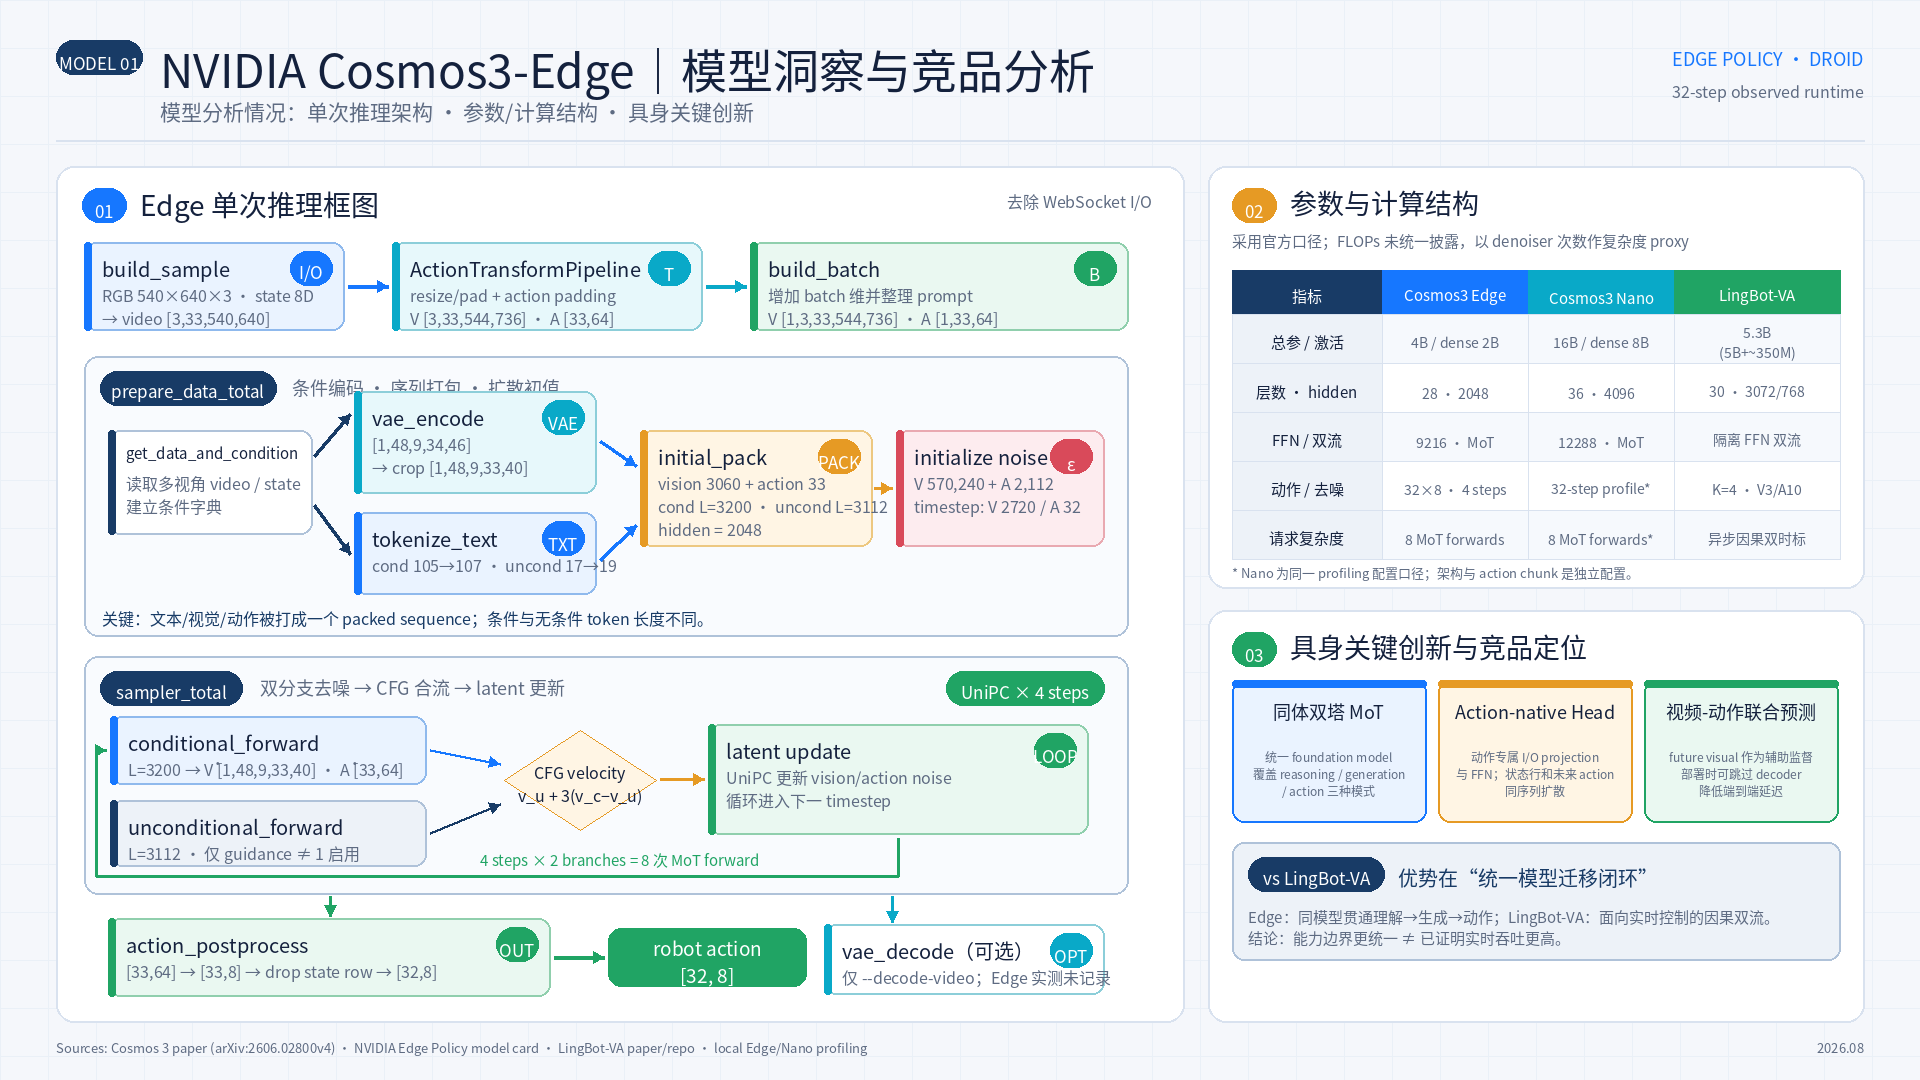
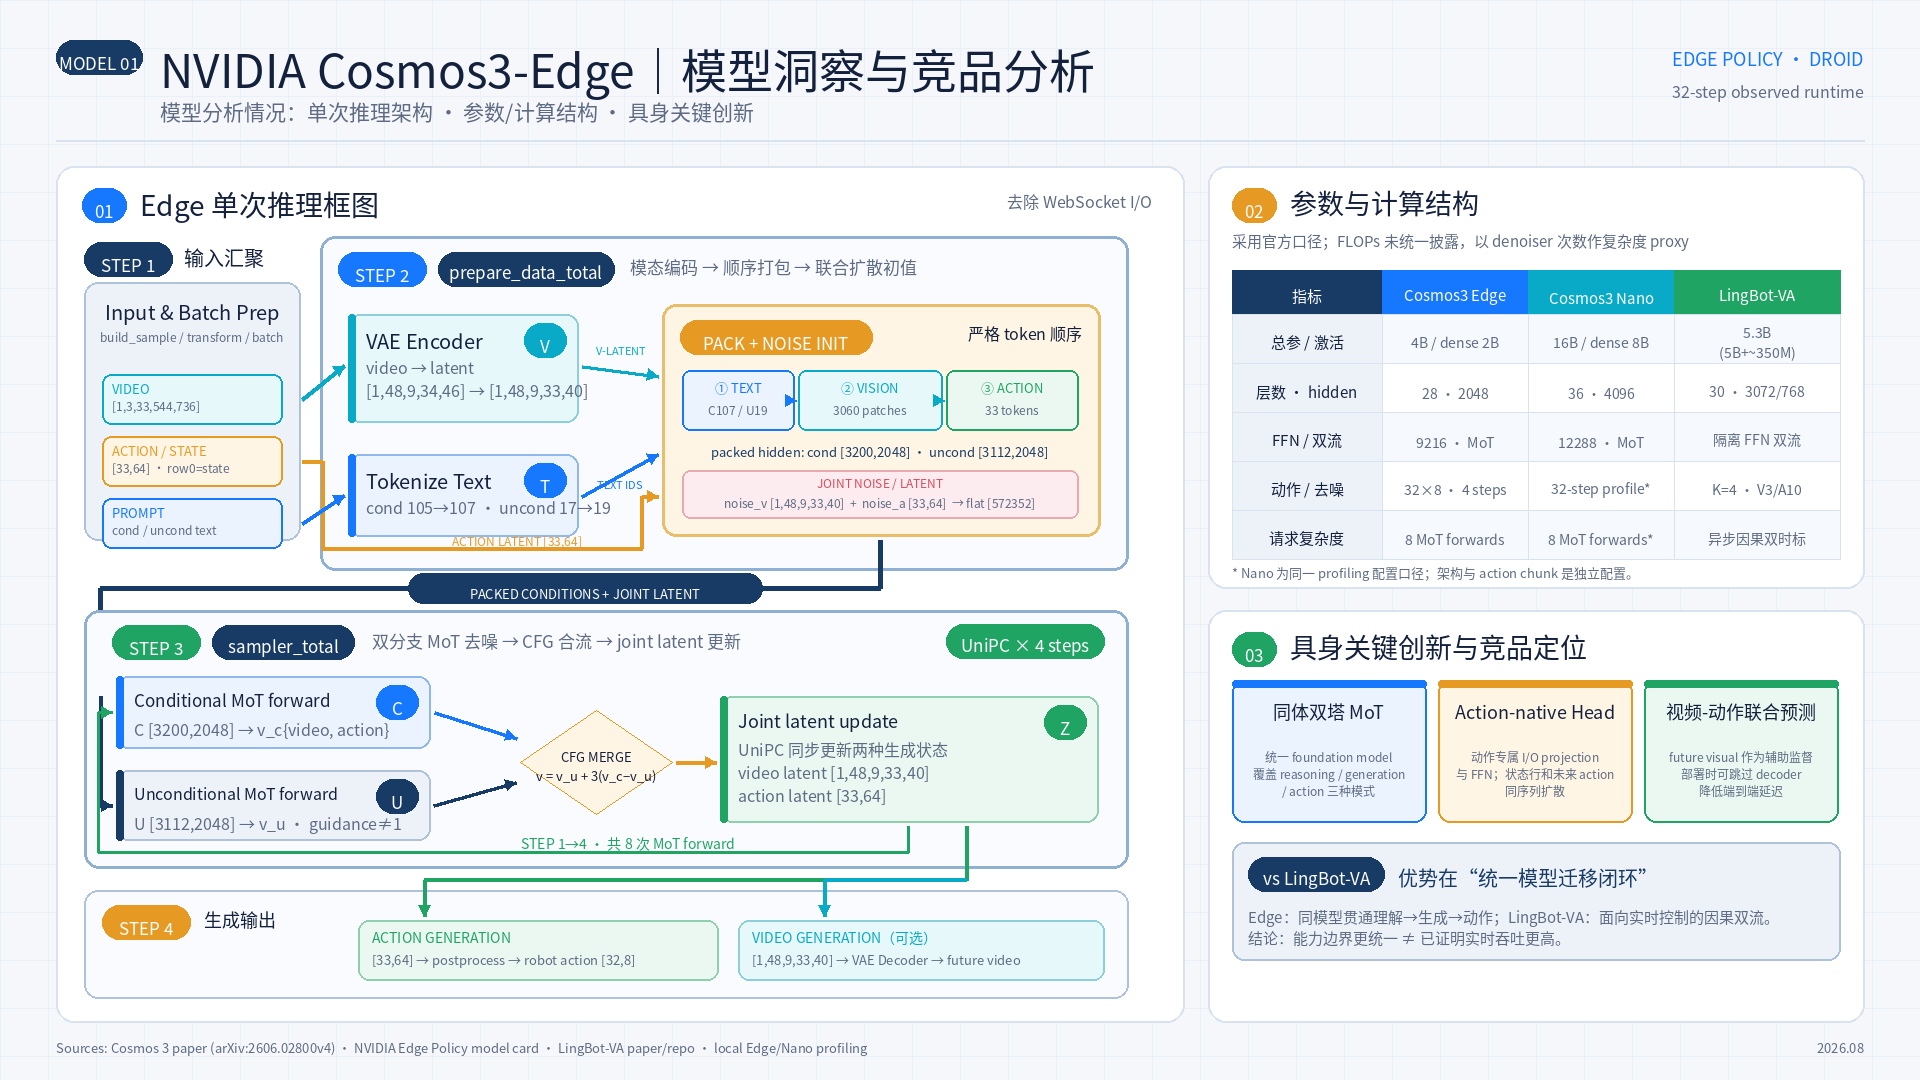
Clarify Cosmos3 Edge inference flow

Changed region(s): [[0.0312, 0.2139, 0.5938, 0.9472]]

diff --git a/docs/ppt/cosmos3_edge_model_insights/generate_pptx.py b/docs/ppt/cosmos3_edge_model_insights/generate_pptx.py
@@ -123,6 +123,22 @@ class SlideCanvas:
         tri.line.fill.background()
         self.draw.polygon([(x2, y2), left, right], fill=hex_tuple(color))
 
+    def path_arrow(self, points, color="1677FF", width=4, dash=False):
+        """Draw an editable orthogonal/segmented connector with one arrowhead."""
+        for (x1, y1), (x2, y2) in zip(points, points[1:]):
+            self.line(x1, y1, x2, y2, color, width, dash)
+        (x1, y1), (x2, y2) = points[-2], points[-1]
+        angle = math.atan2(y2 - y1, x2 - x1)
+        size = 12
+        left = (x2 - size * math.cos(angle - math.pi / 6), y2 - size * math.sin(angle - math.pi / 6))
+        right = (x2 - size * math.cos(angle + math.pi / 6), y2 - size * math.sin(angle + math.pi / 6))
+        tri = self.slide.shapes.add_shape(MSO_AUTO_SHAPE_TYPE.ISOSCELES_TRIANGLE, inch(x2 - 9), inch(y2 - 9), inch(18), inch(18))
+        tri.rotation = math.degrees(angle) + 90
+        tri.fill.solid()
+        tri.fill.fore_color.rgb = rgb(color)
+        tri.line.fill.background()
+        self.draw.polygon([(x2, y2), left, right], fill=hex_tuple(color))
+
     def text(self, x, y, w, h, value, size=24, color="14213D", bold=False, align="left", valign="top", margin=0, line_spacing=1.0):
         box = self.slide.shapes.add_textbox(inch(x), inch(y), inch(w), inch(h))
         frame = box.text_frame
@@ -163,8 +179,10 @@ class SlideCanvas:
     def save(self):
         notes = self.slide.notes_slide.notes_text_frame
         notes.text = (
-            "讲解要点：左侧按真实 Edge Policy 32-step profiling 展示单次请求；"
-            "默认 guidance=3、4 个 UniPC step，因此条件/无条件共 8 次 MoT 前向。"
+            "讲解要点：左侧严格按 STEP 1→4 阅读。先把服务侧预处理折叠成 video/action/prompt 三路输入；"
+            "prepare_data_total 分别完成 VAE、文本 tokenize，并按 text→vision→action 顺序打包，同时初始化联合噪声；"
+            "sampler_total 以同一 packed condition 和 joint latent 执行条件/无条件 MoT、CFG 合流与 UniPC 更新；"
+            "默认 guidance=3、4 个 UniPC step，因此共 8 次 MoT 前向。最后拆成 action 和可选 video 两路输出。"
             "右侧参数采用 Cosmos 3 与 LingBot-VA 官方论文/模型卡口径。"
             "LingBot-VA 是实时因果双流路线，不宜仅凭参数量宣称吞吐优劣。"
         )
@@ -194,64 +212,106 @@ def build():
     c.text(lx + 84, ly + 17, 760, 38, "Edge 单次推理框图", 28, COLORS["ink"], True)
     c.text(lx + 810, ly + 23, 286, 28, "去除 WebSocket I/O", 16, COLORS["muted"], False, "right")
 
-    # Top I/O preparation chain
-    chain_y = 242
-    c.node(84, chain_y, 260, 88, "build_sample", "RGB 540×640×3 · state 8D\n→ video [3,33,540,640]", COLORS["soft_blue"], "8FB9ED", COLORS["blue"], "I/O")
-    c.arrow(348, chain_y + 44, 388, chain_y + 44, COLORS["blue"], 4)
-    c.node(392, chain_y, 310, 88, "ActionTransformPipeline", "resize/pad + action padding\nV [3,33,544,736] · A [33,64]", COLORS["soft_cyan"], "8CCED9", COLORS["cyan"], "T")
-    c.arrow(706, chain_y + 44, 746, chain_y + 44, COLORS["cyan"], 4)
-    c.node(750, chain_y, 378, 88, "build_batch", "增加 batch 维并整理 prompt\nV [1,3,33,544,736] · A [1,33,64]", COLORS["soft_green"], "90CFAD", COLORS["green"], "B")
+    # Step 1: collapse all service-side preprocessing into one audience-level block.
+    c.badge(84, 242, 88, "STEP 1", COLORS["navy"])
+    c.text(184, 242, 190, 30, "输入汇聚", 20, COLORS["ink"], True)
+    c.rect(84, 282, 216, 258, COLORS["soft_navy"], "AFC2D9", 14, 2)
+    c.text(102, 296, 180, 30, "Input & Batch Prep", 20, COLORS["ink"], True, "center")
+    c.text(102, 328, 180, 34, "build_sample / transform / batch", 12, COLORS["muted"], False, "center")
+    input_lanes = [
+        (374, "VIDEO", "[1,3,33,544,736]", COLORS["cyan"], COLORS["soft_cyan"]),
+        (436, "ACTION / STATE", "[33,64] · row0=state", COLORS["amber"], COLORS["soft_amber"]),
+        (498, "PROMPT", "cond / uncond text", COLORS["blue"], COLORS["soft_blue"]),
+    ]
+    for yy, label, shape, accent, fill in input_lanes:
+        c.rect(102, yy, 180, 50, fill, accent, 9, 2)
+        c.text(112, yy + 4, 160, 19, label, 13, accent, True)
+        c.text(112, yy + 23, 160, 20, shape, 12, COLORS["muted"])
 
-    # prepare_data_total container
-    py, ph = 356, 280
-    c.rect(84, py, 1044, ph, "F9FBFE", "AFC2D9", 14, 2)
-    c.badge(100, py + 15, 176, "prepare_data_total", COLORS["navy"])
-    c.text(292, py + 18, 500, 28, "条件编码 · 序列打包 · 扩散初值", 18, COLORS["muted"], True)
+    # Step 2: preparation is a coherent stage with three modality lanes and one merge.
+    c.rect(320, 236, 808, 334, "F9FBFE", "8FB0D3", 15, 3)
+    c.badge(338, 252, 88, "STEP 2", COLORS["blue"])
+    c.badge(438, 252, 176, "prepare_data_total", COLORS["navy"])
+    c.text(630, 254, 466, 26, "模态编码 → 顺序打包 → 联合扩散初值", 17, COLORS["muted"], True)
 
-    c.node(108, 430, 204, 104, "get_data_and_condition", "读取多视角 video / state\n建立条件字典", "FFFFFF", "AFC2D9", COLORS["navy"], None, 15)
-    c.arrow(314, 456, 350, 414, COLORS["navy"], 3)
-    c.arrow(314, 505, 350, 554, COLORS["navy"], 3)
-    c.node(354, 391, 242, 102, "vae_encode", "[1,48,9,34,46]\n→ crop [1,48,9,33,40]", COLORS["soft_cyan"], "8CCED9", COLORS["cyan"], "VAE")
-    c.node(354, 512, 242, 82, "tokenize_text", "cond 105→107 · uncond 17→19", COLORS["soft_blue"], "8FB9ED", COLORS["blue"], "TXT")
-    c.arrow(600, 441, 636, 466, COLORS["blue"], 3)
-    c.arrow(600, 560, 636, 525, COLORS["blue"], 3)
-    c.node(640, 430, 232, 116, "initial_pack", "vision 3060 + action 33\ncond L=3200 · uncond L=3112\nhidden = 2048", COLORS["soft_amber"], "EDC881", COLORS["amber"], "PACK")
-    c.node(896, 430, 208, 116, "initialize noise", "V 570,240 + A 2,112\ntimestep: V 2720 / A 32", COLORS["soft_red"], "E9A9B1", COLORS["red"], "ε")
-    c.arrow(874, 488, 892, 488, COLORS["amber"], 3)
-    c.text(102, 606, 984, 24, "关键：文本/视觉/动作被打成一个 packed sequence；条件与无条件 token 长度不同。", 16, COLORS["navy"], True)
+    c.node(348, 314, 230, 108, "VAE Encoder", "video → latent\n[1,48,9,34,46] → [1,48,9,33,40]", COLORS["soft_cyan"], "8CCED9", COLORS["cyan"], "V")
+    c.node(348, 454, 230, 82, "Tokenize Text", "cond 105→107 · uncond 17→19", COLORS["soft_blue"], "8FB9ED", COLORS["blue"], "T")
 
-    # sampler_total container
-    sy, sh = 656, 238
-    c.rect(84, sy, 1044, sh, "F9FBFE", "AFC2D9", 14, 2)
-    c.badge(100, sy + 15, 142, "sampler_total", COLORS["navy"])
-    c.badge(946, sy + 15, 158, "UniPC × 4 steps", COLORS["green"])
-    c.text(260, sy + 18, 620, 28, "双分支去噪 → CFG 合流 → latent 更新", 18, COLORS["muted"], True)
+    # Explicit input data routes and shapes.
+    c.arrow(302, 399, 344, 365, COLORS["cyan"], 4)
+    c.path_arrow([(302, 461), (322, 461), (322, 548), (642, 548), (642, 496), (658, 496)], COLORS["amber"], 4)
+    c.arrow(302, 523, 344, 495, COLORS["blue"], 4)
+    c.text(414, 532, 206, 18, "ACTION LATENT [33,64]", 12, COLORS["amber"], True, "center")
 
-    c.node(110, 716, 316, 68, "conditional_forward", "L=3200 → V̇ [1,48,9,33,40] · Ȧ [33,64]", COLORS["soft_blue"], "8FB9ED", COLORS["blue"])
-    c.node(110, 800, 316, 66, "unconditional_forward", "L=3112 · 仅 guidance ≠ 1 启用", COLORS["soft_navy"], "AFC2D9", COLORS["navy"])
-    c.arrow(430, 750, 500, 764, COLORS["blue"], 3)
-    c.arrow(430, 833, 500, 804, COLORS["navy"], 3)
-    diamond = c.slide.shapes.add_shape(MSO_AUTO_SHAPE_TYPE.DIAMOND, inch(504), inch(730), inch(152), inch(100))
+    # Merge initial_pack and initialize-noise into one logical stage.
+    c.rect(662, 304, 438, 232, COLORS["soft_amber"], "E8BE6A", 14, 3)
+    c.badge(680, 320, 192, "PACK + NOISE INIT", COLORS["amber"])
+    c.text(884, 321, 198, 28, "严格 token 顺序", 16, COLORS["ink"], True, "right")
+    c.arrow(582, 366, 658, 376, COLORS["cyan"], 4)
+    c.text(586, 342, 70, 20, "V-LATENT", 11, COLORS["cyan"], True, "center")
+    c.arrow(582, 496, 658, 454, COLORS["blue"], 4)
+    c.text(584, 476, 72, 20, "TEXT IDS", 11, COLORS["blue"], True, "center")
+
+    # The standard Policy packer is text, then vision, then action.
+    token_cells = [
+        (682, 370, 112, "① TEXT", "C107 / U19", COLORS["blue"], COLORS["soft_blue"]),
+        (798, 370, 144, "② VISION", "3060 patches", COLORS["cyan"], COLORS["soft_cyan"]),
+        (946, 370, 132, "③ ACTION", "33 tokens", COLORS["green"], COLORS["soft_green"]),
+    ]
+    for xx, yy, ww, label, detail, accent, fill in token_cells:
+        c.rect(xx, yy, ww, 60, fill, accent, 8, 2)
+        c.text(xx, yy + 7, ww, 20, label, 13, accent, True, "center")
+        c.text(xx, yy + 31, ww, 18, detail, 12, COLORS["muted"], False, "center")
+    c.arrow(794, 400, 796, 400, COLORS["blue"], 2)
+    c.arrow(942, 400, 944, 400, COLORS["cyan"], 2)
+    c.text(682, 441, 396, 20, "packed hidden: cond [3200,2048] · uncond [3112,2048]", 13, COLORS["navy"], True, "center")
+    c.rect(682, 470, 396, 48, COLORS["soft_red"], "E9A9B1", 8, 2)
+    c.text(692, 474, 376, 18, "JOINT NOISE / LATENT", 12, COLORS["red"], True, "center")
+    c.text(692, 494, 376, 18, "noise_v [1,48,9,33,40]  +  noise_a [33,64]  → flat [572352]", 12, COLORS["muted"], False, "center")
+
+    # One unmistakable hand-off from preparation into the sampler.
+    c.path_arrow([(880, 540), (880, 588), (100, 588), (100, 696), (112, 696)], COLORS["navy"], 5)
+    c.rect(408, 573, 354, 30, COLORS["navy"], COLORS["navy"], 15, 1)
+    c.text(408, 573, 354, 30, "PACKED CONDITIONS + JOINT LATENT", 13, "FFFFFF", True, "center", "middle")
+
+    # Step 3: sampler_total is the main denoising system boundary.
+    sy, sh = 610, 258
+    c.rect(84, sy, 1044, sh, "F9FBFE", "8FB0D3", 15, 3)
+    c.badge(112, sy + 15, 88, "STEP 3", COLORS["green"])
+    c.badge(212, sy + 15, 142, "sampler_total", COLORS["navy"])
+    c.text(372, sy + 18, 520, 26, "双分支 MoT 去噪 → CFG 合流 → joint latent 更新", 17, COLORS["muted"], True)
+    c.badge(946, sy + 14, 158, "UniPC × 4 steps", COLORS["green"])
+
+    c.node(116, 676, 314, 72, "Conditional MoT forward", "C [3200,2048] → v_c{video, action}", COLORS["soft_blue"], "8FB9ED", COLORS["blue"], "C", 17)
+    c.node(116, 770, 314, 70, "Unconditional MoT forward", "U [3112,2048] → v_u · guidance≠1", COLORS["soft_navy"], "AFC2D9", COLORS["navy"], "U", 16)
+    c.line(100, 696, 100, 805, COLORS["navy"], 4)
+    c.arrow(100, 805, 112, 805, COLORS["navy"], 4)
+    c.arrow(434, 712, 516, 738, COLORS["blue"], 4)
+    c.arrow(434, 805, 516, 782, COLORS["navy"], 4)
+    diamond = c.slide.shapes.add_shape(MSO_AUTO_SHAPE_TYPE.DIAMOND, inch(520), inch(710), inch(152), inch(104))
     diamond.fill.solid(); diamond.fill.fore_color.rgb = rgb(COLORS["soft_amber"])
     diamond.line.color.rgb = rgb(COLORS["amber"]); diamond.line.width = Pt(1.2)
-    c.draw.polygon([(580, 730), (656, 780), (580, 830), (504, 780)], fill=hex_tuple(COLORS["soft_amber"]), outline=hex_tuple(COLORS["amber"]))
-    c.text(517, 748, 126, 64, "CFG velocity\nv_u + 3(v_c−v_u)", 16, COLORS["ink"], True, "center", "middle")
-    c.arrow(660, 779, 704, 779, COLORS["amber"], 3)
-    c.node(708, 724, 380, 110, "latent update", "UniPC 更新 vision/action noise\n循环进入下一 timestep", COLORS["soft_green"], "90CFAD", COLORS["green"], "LOOP")
-    c.line(898, 838, 898, 876, COLORS["green"], 3)
-    c.line(898, 876, 96, 876, COLORS["green"], 3)
-    c.line(96, 876, 96, 750, COLORS["green"], 3)
-    c.arrow(96, 750, 106, 750, COLORS["green"], 3)
-    c.text(455, 848, 330, 22, "4 steps × 2 branches = 8 次 MoT forward", 15, COLORS["green"], True, "center")
+    c.draw.polygon([(596, 710), (672, 762), (596, 814), (520, 762)], fill=hex_tuple(COLORS["soft_amber"]), outline=hex_tuple(COLORS["amber"]))
+    c.text(534, 729, 124, 66, "CFG MERGE\nv = v_u + 3(v_c−v_u)", 13, COLORS["ink"], True, "center", "middle")
+    c.arrow(676, 762, 716, 762, COLORS["amber"], 4)
+    c.node(720, 696, 378, 126, "Joint latent update", "UniPC 同步更新两种生成状态\nvideo latent [1,48,9,33,40]\naction latent [33,64]", COLORS["soft_green"], "90CFAD", COLORS["green"], "Z", 18)
 
-    # Outputs
-    c.arrow(330, 896, 330, 916, COLORS["green"], 3)
-    c.node(108, 918, 442, 78, "action_postprocess", "[33,64] → [33,8] → drop state row → [32,8]", COLORS["soft_green"], "90CFAD", COLORS["green"], "OUT")
-    c.arrow(554, 957, 604, 957, COLORS["green"], 4)
-    c.rect(608, 928, 198, 58, COLORS["green"], COLORS["green"], 13, 1)
-    c.text(608, 928, 198, 58, "robot action\n[32, 8]", 19, "FFFFFF", True, "center", "middle")
-    c.arrow(892, 896, 892, 922, COLORS["cyan"], 3, True)
-    c.node(824, 924, 280, 70, "vae_decode（可选）", "仅 --decode-video；Edge 实测未记录", "FFFFFF", "8CCED9", COLORS["cyan"], "OPT")
+    # Loop is visually separated from the forward path.
+    c.path_arrow([(908, 826), (908, 852), (98, 852), (98, 712), (112, 712)], COLORS["green"], 3)
+    c.text(456, 832, 344, 20, "STEP 1→4 · 共 8 次 MoT forward", 14, COLORS["green"], True, "center")
+
+    # Step 4: split the final joint state into action and video generation paths.
+    c.rect(84, 890, 1044, 108, "F9FBFE", "AFC2D9", 14, 2)
+    c.badge(102, 905, 88, "STEP 4", COLORS["amber"])
+    c.text(204, 906, 150, 26, "生成输出", 18, COLORS["ink"], True)
+    c.path_arrow([(966, 826), (966, 880), (424, 880), (424, 916)], COLORS["green"], 4)
+    c.path_arrow([(966, 880), (824, 880), (824, 916)], COLORS["cyan"], 4, True)
+    c.rect(358, 920, 360, 60, COLORS["soft_green"], "90CFAD", 11, 2)
+    c.text(372, 926, 332, 21, "ACTION GENERATION", 14, COLORS["green"], True)
+    c.text(372, 949, 332, 22, "[33,64] → postprocess → robot action [32,8]", 13, COLORS["muted"])
+    c.rect(738, 920, 366, 60, COLORS["soft_cyan"], "8CCED9", 11, 2)
+    c.text(752, 926, 338, 21, "VIDEO GENERATION（可选）", 14, COLORS["cyan"], True)
+    c.text(752, 949, 338, 22, "[1,48,9,33,40] → VAE Decoder → future video", 13, COLORS["muted"])
 
     # Right comparison panel
     rx, rw = 1208, 656

diff --git a/docs/agent_logs/2026-08-17.md b/docs/agent_logs/2026-08-17.md
@@ -76,6 +76,12 @@ Status: `RESOLVED`
 - The inference diagram covers the local 32-action Edge path from
   `build_sample` through optional `vae_decode`, including observed video,
   action, latent, packed-sequence, noise, timestep, and output dimensions.
+- Reworked the architecture after audience-readability feedback into one
+  numbered main path: collapsed input/batching; `prepare_data_total` with
+  separate video/text encoding and a merged pack/noise stage; `sampler_total`
+  with explicit conditional/unconditional inputs, CFG merge, latent loop; and
+  separate action/video output branches. The pack block now exposes the actual
+  standard Policy token order `text -> vision -> action` and both packed lengths.
 - The specification table compares Cosmos3-Edge, Cosmos3-Nano, and LingBot-VA
   using official model/paper parameter counts and architecture fields. Compute
   complexity is expressed as each system's actual denoising/CFG/AR execution
@@ -85,7 +91,7 @@ Status: `RESOLVED`
   projections from LingBot-VA's causal autoregressive rollout, KV cache, and
   asynchronous execution strengths.
 - Validation: the generated PPTX reopens with `python-pptx` as one slide with
-  271 editable shapes; the 1920x1080 PNG preview was rendered with a temporary
+  290 editable shapes; the 1920x1080 PNG preview was rendered with a temporary
   CJK font and inspected for overlaps and connector routing. No GPU/ONNX
   validation applies to this presentation-only change.
 
